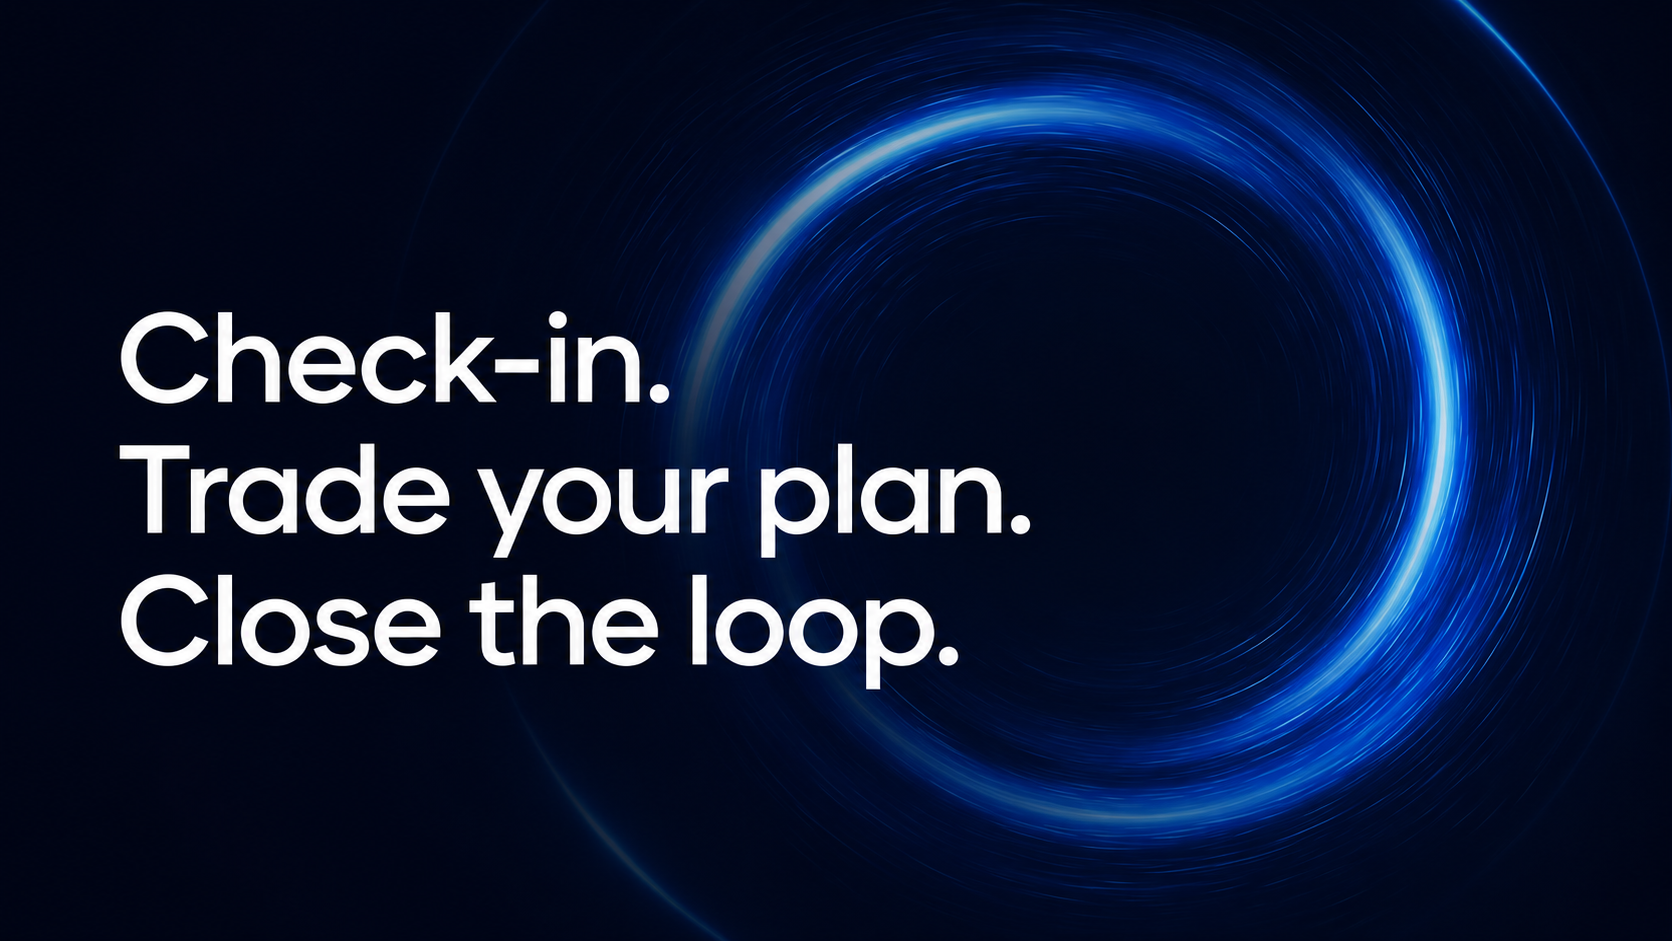
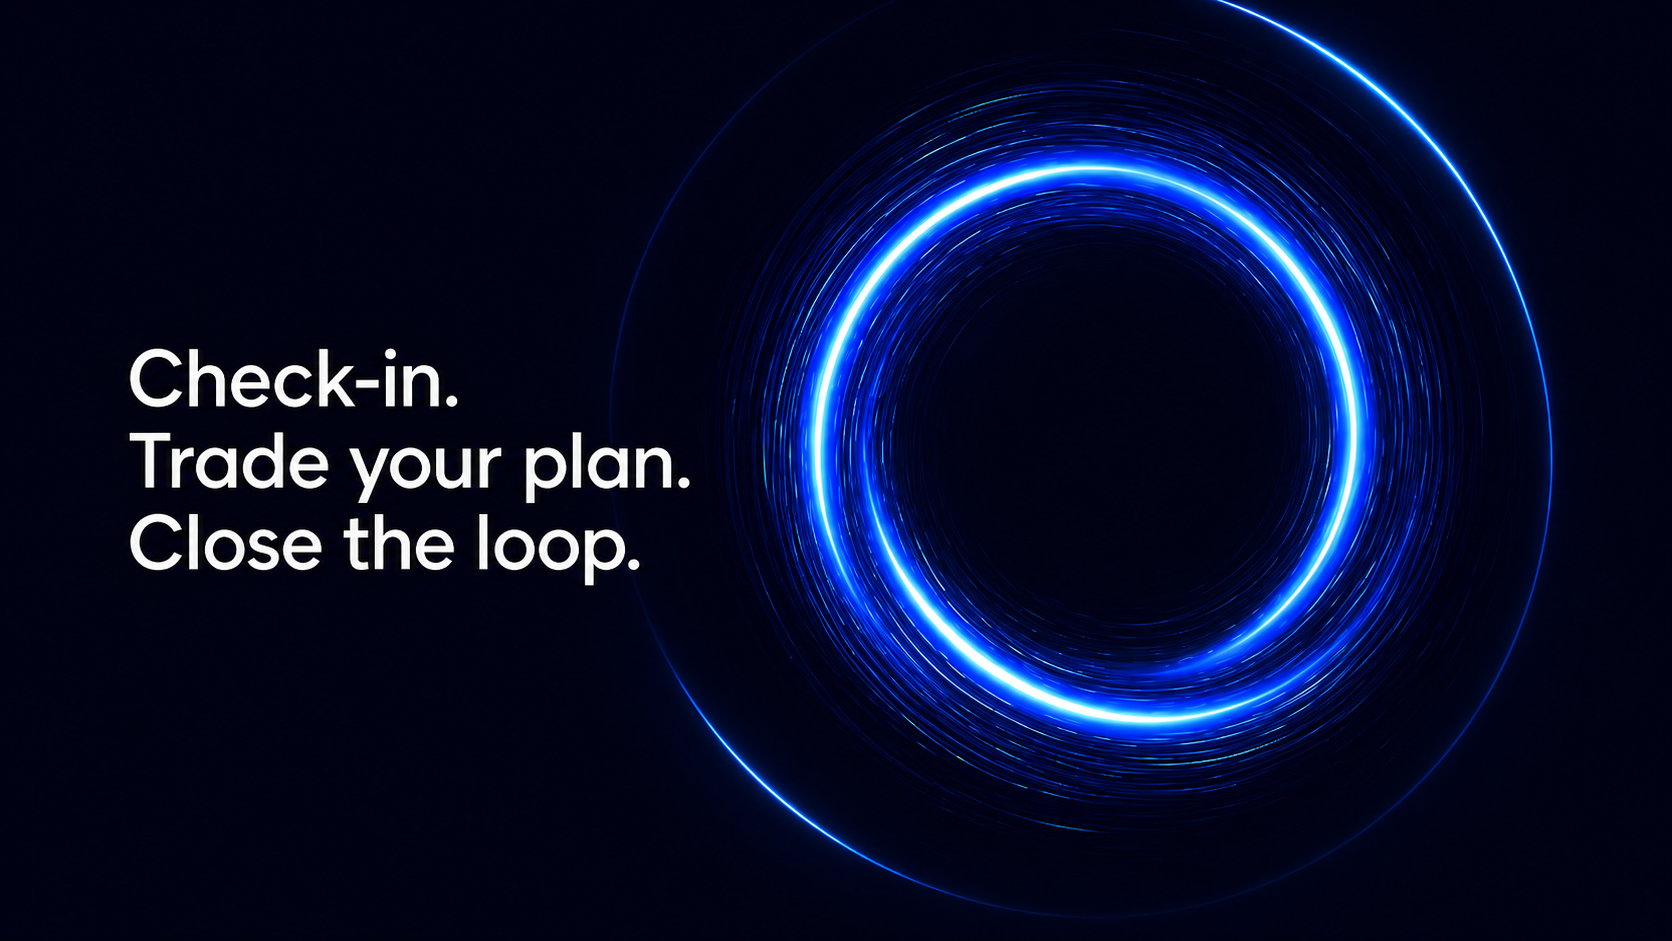
Refine landing page workflow transition

diff --git a/src/app/globals.css b/src/app/globals.css
@@ -1017,6 +1017,172 @@ textarea:focus, input:focus, select:focus {
   }
 }
 
+/* Landing workflow v2 — cinematic scroll story */
+.landing-workflow-story.landing-workflow-cinematic {
+  position: relative;
+  width: 100% !important;
+  max-width: none;
+  margin: 0 !important;
+  padding: 0 0 80px;
+  overflow: hidden;
+  isolation: isolate;
+  background:
+    radial-gradient(circle at 50% 13%, rgba(8,125,255,.13), transparent 20%),
+    linear-gradient(180deg, #010716 0%, #020817 42%, #010716 100%);
+}
+.landing-workflow-story.landing-workflow-cinematic::before {
+  content: "";
+  position: absolute;
+  z-index: -2;
+  top: -310px;
+  right: -230px;
+  width: 760px;
+  aspect-ratio: 1;
+  border: 1px solid rgba(36,140,255,.2);
+  border-radius: 50%;
+  box-shadow: 0 0 0 44px rgba(8,125,255,.025), 0 0 0 92px rgba(8,125,255,.016);
+  opacity: .75;
+}
+.landing-workflow-intro {
+  position: relative;
+  z-index: 2;
+  display: grid;
+  justify-items: center;
+  min-height: min(820px, 88svh);
+  padding: clamp(150px, 15vw, 230px) 24px 100px;
+  text-align: center;
+}
+.landing-workflow-intro .landing-section-label { align-self: end; justify-content: center; margin: 0 0 25px; }
+.landing-workflow-intro h2 {
+  max-width: 980px;
+  margin: 0;
+  color: rgba(255,255,255,.97);
+  font-family: 'Outfit', var(--font-poster), var(--font-sans);
+  font-size: clamp(56px, 6.2vw, 102px);
+  font-weight: 450;
+  letter-spacing: -.045em;
+  line-height: .98;
+}
+.landing-workflow-intro h2 span { color: #168cff; text-shadow: 0 0 35px rgba(8,125,255,.2); }
+.landing-workflow-intro > p { align-self: start; margin: 40px 0 0; color: rgba(160,191,227,.6); font-size: 12px; letter-spacing: .18em; text-transform: uppercase; }
+.landing-workflow-intro > p b { display: block; margin-top: 15px; color: #168cff; font-size: 23px; font-weight: 300; animation: landing-scroll-cue 1.8s ease-in-out infinite; }
+@keyframes landing-scroll-cue { 0%,100%{transform:translateY(0);opacity:.55} 50%{transform:translateY(8px);opacity:1} }
+
+.landing-workflow-trail {
+  position: absolute;
+  z-index: 0;
+  top: 660px;
+  bottom: 240px;
+  left: 50%;
+  width: 1px;
+  transform: translateX(-50%);
+  background: linear-gradient(transparent, rgba(8,125,255,.75) 8%, rgba(8,125,255,.18) 92%, transparent);
+  box-shadow: 0 0 13px rgba(8,125,255,.7);
+}
+.landing-workflow-trail::before,
+.landing-workflow-trail::after {
+  content: "";
+  position: absolute;
+  left: 50%;
+  width: 13px;
+  height: 13px;
+  transform: translateX(-50%);
+  border: 1px solid #168cff;
+  border-radius: 50%;
+  background: #020817;
+  box-shadow: 0 0 18px #087dff;
+}
+.landing-workflow-trail::before { top: 13%; }
+.landing-workflow-trail::after { top: 78%; }
+.landing-workflow-trail i { position: sticky; top: 45%; display: block; width: 5px; height: 80px; margin-left: -2px; border-radius: 8px; background: linear-gradient(transparent,#5bd4ff,transparent); filter: drop-shadow(0 0 8px #168cff); }
+
+.landing-workflow-chapter {
+  position: relative;
+  z-index: 1;
+  display: grid;
+  grid-template-columns: minmax(340px,.72fr) minmax(620px,1.28fr);
+  align-items: center;
+  gap: clamp(54px,7vw,120px);
+  width: min(1480px, calc(100% - 96px));
+  min-height: min(980px, 100svh);
+  margin: 0 auto;
+  padding: 100px 0;
+}
+.landing-workflow-chapter--plan { grid-template-columns: minmax(620px,1.28fr) minmax(340px,.72fr); }
+.landing-workflow-chapter--plan .landing-workflow-chapter-copy { grid-column: 2; }
+.landing-workflow-chapter--plan .landing-workflow-screen { grid-column: 1; grid-row: 1; }
+.landing-workflow-chapter::after {
+  content: "";
+  position: absolute;
+  z-index: -2;
+  width: min(720px, 54vw);
+  aspect-ratio: 1;
+  border: 1px solid rgba(25,133,255,.16);
+  border-radius: 50%;
+  box-shadow: 0 0 0 50px rgba(8,125,255,.018), inset 0 0 110px rgba(8,125,255,.04);
+  pointer-events: none;
+}
+.landing-workflow-chapter--checkin::after,.landing-workflow-chapter--close::after { right: -17%; top: 50%; transform: translateY(-50%); }
+.landing-workflow-chapter--plan::after { left: -17%; top: 50%; transform: translateY(-50%); }
+.landing-workflow-chapter-copy { position: relative; z-index: 3; max-width: 560px; }
+.landing-workflow-number {
+  position: absolute;
+  z-index: -1;
+  top: -130px;
+  left: -28px;
+  color: rgba(8,125,255,.095);
+  font-family: 'Outfit', var(--font-poster), var(--font-sans);
+  font-size: clamp(140px,14vw,230px);
+  font-weight: 600;
+  letter-spacing: -.08em;
+  line-height: 1;
+}
+.landing-workflow-story .landing-workflow-chapter-copy .landing-section-label { justify-content: flex-start; margin: 0 0 24px; text-align: left; }
+.landing-workflow-chapter-copy h3 {
+  margin: 0;
+  color: rgba(255,255,255,.98);
+  font-family: 'Outfit', var(--font-poster), var(--font-sans);
+  font-size: clamp(48px,5vw,76px);
+  font-weight: 450;
+  letter-spacing: -.045em;
+  line-height: 1.01;
+}
+.landing-workflow-chapter-copy > p { max-width: 500px; margin: 28px 0 0; color: rgba(179,201,229,.62); font-size: clamp(16px,1.4vw,19px); line-height: 1.68; }
+.landing-workflow-proof { display: flex; flex-direction: column; gap: 7px; margin-top: 36px; padding-left: 18px; border-left: 2px solid #168cff; }
+.landing-workflow-proof strong { color: #fff; font-size: 14px; }.landing-workflow-proof span { color: rgba(118,175,236,.6); font-size: 12px; }
+
+.landing-workflow-screen {
+  position: relative;
+  z-index: 2;
+  height: clamp(500px, 40vw, 650px);
+  border: 1px solid rgba(67,140,224,.32);
+  border-radius: 24px;
+  overflow: hidden;
+  background: #030a14;
+  box-shadow: 0 50px 110px rgba(0,0,0,.55), 0 0 80px rgba(8,125,255,.1), inset 0 1px 0 rgba(255,255,255,.04);
+  transform: perspective(1500px) rotateY(-2deg);
+}
+.landing-workflow-chapter--plan .landing-workflow-screen { transform: perspective(1500px) rotateY(2deg); }
+.landing-workflow-screen::before { content:""; position:absolute; z-index:5; inset:0; border-radius:inherit; box-shadow: inset 0 0 80px rgba(2,8,18,.2); pointer-events:none; }
+.landing-workflow-screen .landing-slide-preview-page { min-height: 100%; height: 100%; }
+
+@supports (animation-timeline: view()) {
+  .landing-workflow-chapter-copy { animation: landing-copy-reveal both linear; animation-timeline: view(); animation-range: entry 8% cover 38%; }
+  .landing-workflow-screen { animation: landing-screen-reveal both linear; animation-timeline: view(); animation-range: entry 3% cover 36%; }
+  @keyframes landing-copy-reveal { from { opacity:.15; transform:translateY(70px); } to { opacity:1; transform:translateY(0); } }
+  @keyframes landing-screen-reveal { from { opacity:.15; filter:blur(6px); scale:.9; } to { opacity:1; filter:blur(0); scale:1; } }
+}
+
+@media (max-width: 1050px) {
+  .landing-workflow-chapter,.landing-workflow-chapter--plan { grid-template-columns: 1fr; gap: 58px; width:min(820px,calc(100% - 44px)); min-height:0; padding:150px 0; }
+  .landing-workflow-chapter--plan .landing-workflow-chapter-copy { grid-column:1; }.landing-workflow-chapter--plan .landing-workflow-screen { grid-column:1;grid-row:2; }
+  .landing-workflow-screen,.landing-workflow-chapter--plan .landing-workflow-screen { transform:none; height:clamp(450px,68vw,620px); }
+  .landing-workflow-chapter-copy { max-width:650px; }.landing-workflow-trail { left:calc(100% - 25px); }
+}
+@media (max-width: 560px) {
+  .landing-workflow-intro { min-height:680px;padding:120px 20px 80px }.landing-workflow-intro h2{font-size:52px}.landing-workflow-chapter,.landing-workflow-chapter--plan{width:calc(100% - 28px);padding:110px 0;gap:42px}.landing-workflow-chapter-copy h3{font-size:43px}.landing-workflow-number{top:-80px;left:-5px;font-size:118px}.landing-workflow-chapter-copy>p{font-size:15px}.landing-workflow-screen{height:400px;border-radius:16px}.landing-workflow-trail{display:none}.landing-workflow-chapter::after{width:115vw;opacity:.6}.landing-workflow-proof{margin-top:25px}
+}
+
 /* Landing page continuation — product story */
 .landing-page:has(.landing-hero--artwork) { background: #010716; }
 .landing-page:has(.landing-hero--artwork) .landing-page-inner { max-width: none; }
@@ -17811,6 +17977,67 @@ input.pm-slider:active::-moz-range-thumb {
   background: linear-gradient(145deg, rgba(28,68,126,.58), rgba(5,23,55,.82));
 }
 
+.landing-hero-scroll-cue {
+  position: absolute;
+  z-index: 3;
+  left: 50%;
+  bottom: clamp(14px, 2.1vw, 34px);
+  display: flex;
+  flex-direction: column;
+  align-items: center;
+  gap: 7px;
+  transform: translateX(-50%);
+  color: rgba(142,181,228,.72);
+  font-family: var(--landing-font), var(--font-sans);
+  font-size: 10px;
+  font-weight: 500;
+  letter-spacing: .2em;
+  text-decoration: none;
+  text-transform: uppercase;
+}
+.landing-hero-scroll-cue b {
+  color: #168cff;
+  font-size: 20px;
+  font-weight: 300;
+  line-height: 1;
+  filter: drop-shadow(0 0 7px rgba(8,125,255,.72));
+  animation: landing-scroll-cue 1.8s ease-in-out infinite;
+}
+.landing-hero-scroll-cue:hover { color: rgba(198,220,245,.95); }
+.landing-workflow-story.landing-workflow-cinematic { padding-top: 0; }
+.landing-workflow-story.landing-workflow-cinematic::before,
+.landing-workflow-cinematic .landing-workflow-chapter--checkin::after { display: none; }
+.landing-workflow-cinematic .landing-workflow-trail { top: min(980px, 100svh); }
+.landing-workflow-cinematic .landing-workflow-chapter--checkin { padding-top: clamp(100px, 11vw, 170px); }
+
+.landing-workflow-entry-cue {
+  position: absolute;
+  z-index: 4;
+  top: clamp(38px, 4vw, 66px);
+  left: 50%;
+  display: flex;
+  flex-direction: column;
+  align-items: center;
+  gap: 8px;
+  transform: translateX(-50%);
+  color: rgba(142,181,228,.72);
+  font-family: var(--landing-font), var(--font-sans);
+  font-size: 10px;
+  font-weight: 500;
+  letter-spacing: .2em;
+  text-decoration: none;
+  text-transform: uppercase;
+}
+.landing-workflow-entry-cue b {
+  color: #168cff;
+  font-size: 20px;
+  font-weight: 300;
+  line-height: 1;
+  filter: drop-shadow(0 0 7px rgba(8,125,255,.72));
+  animation: landing-scroll-cue 1.8s ease-in-out infinite;
+}
+.landing-workflow-entry-cue:hover { color: rgba(198,220,245,.95); }
+
 @media (max-width: 900px) {
   .landing-hero--artwork {
     height: 720px;
@@ -17826,6 +18053,8 @@ input.pm-slider:active::-moz-range-thumb {
     gap: 14px;
   }
   .landing-artwork-btn { min-height: 58px; font-size: 18px; }
+  .landing-hero-scroll-cue { bottom: 18px; }
+  .landing-workflow-entry-cue { top: 34px; }
 }
 
 @media (max-width: 560px) {
@@ -17843,4 +18072,6 @@ input.pm-slider:active::-moz-range-thumb {
     gap: 10px;
   }
   .landing-artwork-btn { min-height: 56px; padding: 0 12px; border-radius: 10px; font-size: 16px; }
+  .landing-hero-scroll-cue { bottom: 13px; font-size: 9px; }
+  .landing-workflow-entry-cue { top: 26px; font-size: 9px; }
 }

diff --git a/src/components/LandingPage.jsx b/src/components/LandingPage.jsx
@@ -39,13 +39,13 @@ export default function LandingPage() {
     <div className="landing-page-vignette" aria-hidden="true" /><div className="landing-page-glow" aria-hidden="true" />
     <header className="landing-header"><Link href="/" className="landing-header-brand" aria-label="Libertrade Loop home"><img src="/brand/primary-wordmark-login-v3.png" alt="Libertrade Loop" className="landing-header-logo" /></Link><nav className="landing-header-nav" aria-label="Account"><Link href="/login" className="landing-link landing-link--muted">Sign in</Link><Link href="/signup" className="landing-btn landing-btn--primary">Start free</Link></nav></header>
     <div className="landing-page-inner"><main className="landing-main">
-      <section className="landing-hero landing-hero--simple landing-hero--artwork" aria-labelledby="landing-hero-title"><img src="/brand/primary-wordmark-login-v3.png" alt="Libertrade Loop" className="landing-artwork-logo" /><h1 id="landing-hero-title" className="landing-artwork-title">Check-in. Trade your plan. Close the loop.</h1><div className="landing-artwork-actions"><Link href="/signup" className="landing-artwork-btn landing-artwork-btn--primary">Start your loop</Link><Link href="/login" className="landing-artwork-btn landing-artwork-btn--secondary">Sign in</Link></div></section>
+      <section className="landing-hero landing-hero--simple landing-hero--artwork" aria-labelledby="landing-hero-title"><img src="/brand/primary-wordmark-login-v3.png" alt="Libertrade Loop" className="landing-artwork-logo" /><h1 id="landing-hero-title" className="landing-artwork-title">Check-in. Trade your plan. Close the loop.</h1><div className="landing-artwork-actions"><Link href="/signup" className="landing-artwork-btn landing-artwork-btn--primary">Set up your LOOP</Link><Link href="/login" className="landing-artwork-btn landing-artwork-btn--secondary">Sign in</Link></div></section>
 
-      <section className="landing-workflow-story landing-workflow-cinematic" aria-labelledby="landing-workflow-title">
+      <section id="landing-workflow" className="landing-workflow-story landing-workflow-cinematic" aria-label="The Libertrade Loop workflow">
+        <a href="#landing-checkin" className="landing-workflow-entry-cue"><span>The loop</span><b aria-hidden="true">↓</b></a>
         <div className="landing-workflow-trail" aria-hidden="true"><i /></div>
-        <header className="landing-workflow-intro"><SectionLabel>The loop</SectionLabel><h2 id="landing-workflow-title">One process.<br />Three moments.<br /><span>A better trader every session.</span></h2><p>Follow the loop <b aria-hidden="true">↓</b></p></header>
 
-        <article className="landing-workflow-chapter landing-workflow-chapter--checkin">
+        <article id="landing-checkin" className="landing-workflow-chapter landing-workflow-chapter--checkin">
           <div className="landing-workflow-chapter-copy"><span className="landing-workflow-number">01</span><SectionLabel>Before the session</SectionLabel><h3>Know your state<br />before you trade.</h3><p>Score your physical state, mindset, and market context before risk enters the equation.</p><div className="landing-workflow-proof"><strong>Readiness first.</strong><span>Clarity before execution.</span></div></div>
           <div className="landing-workflow-screen"><CheckInPreview /></div>
         </article>
